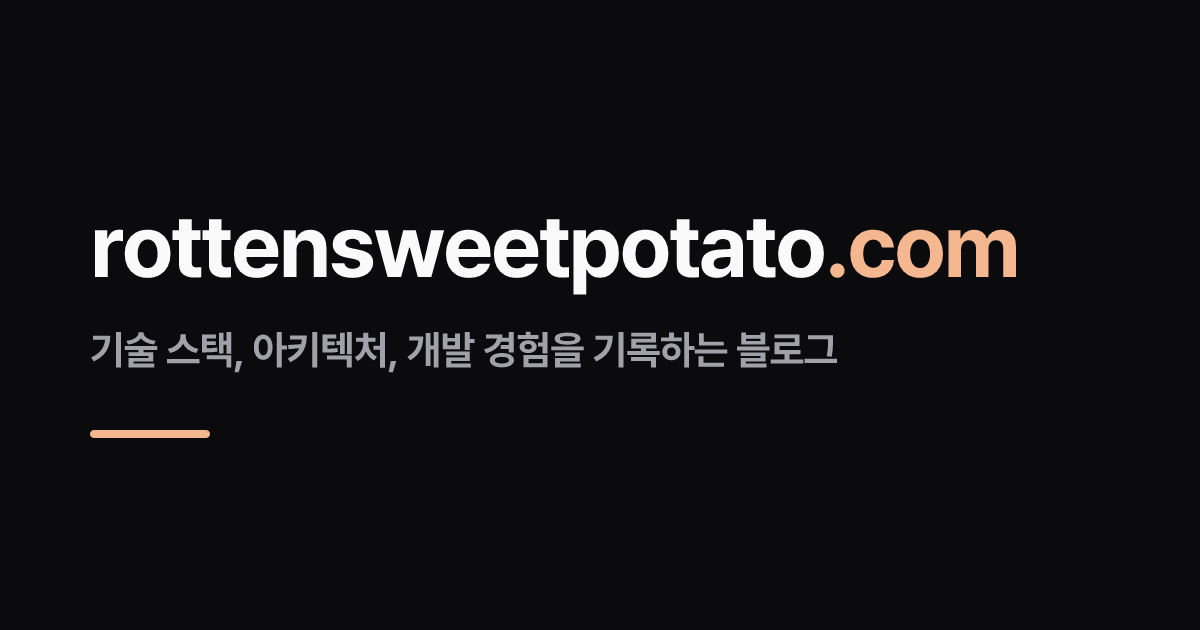
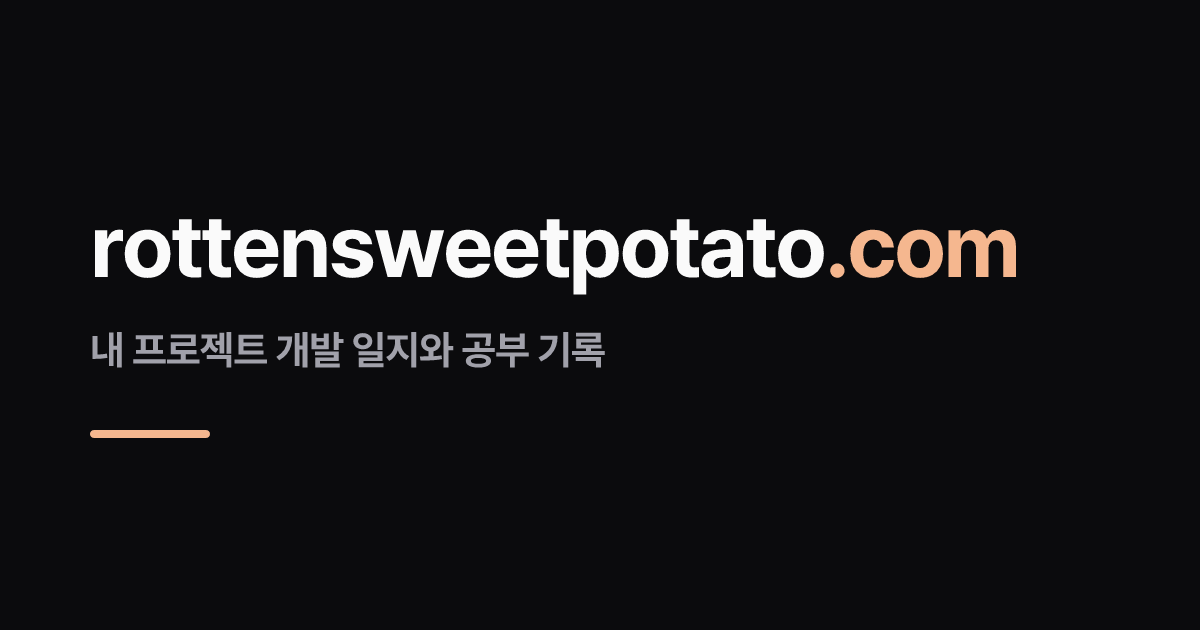
chore: 블로그 이름을 rottensweetpotato 로, 설명을 개발 일지·공부 기록으로 변경

Changed region(s): [[0.0617, 0.5127, 0.7092, 0.6032]]

diff --git a/index.html b/index.html
@@ -1,11 +1,11 @@
 ---
 layout: default
-title: No1Joon's Tech Blog
-description: 기술 스택, 아키텍처, 개발 경험을 기록하는 블로그
+title: rottensweetpotato
+description: 내 프로젝트 개발 일지와 공부 기록
 ---
 <div class="page-hero">
-  <h1>Tech Stack Blog</h1>
-  <p>기술 스택과 아키텍처 선택에 대한 기록</p>
+  <h1>rottensweetpotato</h1>
+  <p>내 프로젝트 개발 일지와 공부 기록</p>
 </div>
 
 {% include post-browser.html %}

diff --git a/en/index.html b/en/index.html
@@ -1,7 +1,7 @@
 ---
 layout: default
-title: No1Joon's Tech Blog
-description: Notes on tech stacks, architecture, and building things
+title: rottensweetpotato
+description: Dev logs from my projects and study notes
 permalink: /en/
 ---
 {% assign t = site.data.i18n.en %}
